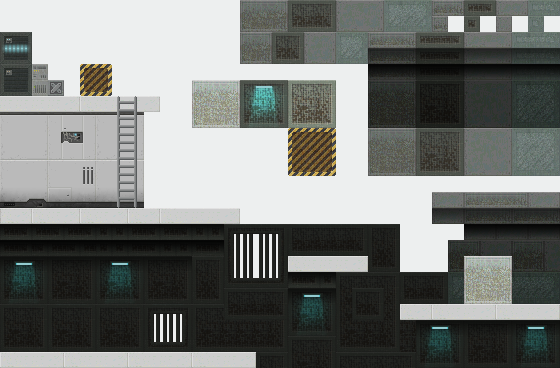
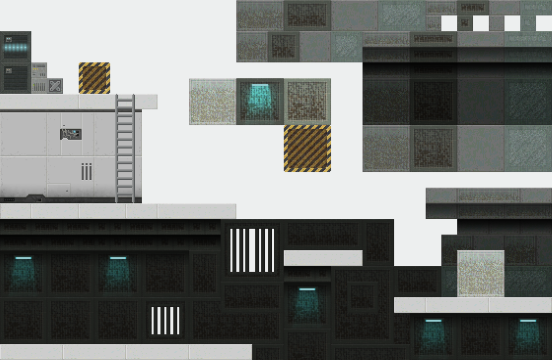
loading assets test

diff --git a/Iterative Sequence 2 - digital prototype 1/js/Game.js b/Iterative Sequence 2 - digital prototype 1/js/Game.js
@@ -70,8 +70,8 @@ BasicGame.Game.prototype = {
         this.music.play();
 
         this.map = this.game.add.tilemap('maze');
-        this.map.addTilesetImage('tile-set');
-        this.layer = this.map.createLayer('col_layer');
+        this.map.addTilesetImage('tiles-2');
+        this.layer = this.map.createLayer('walls');
         this.map.setCollisionByExclusion([], true, this.layer);
         this.layer.resizeWorld();
 
